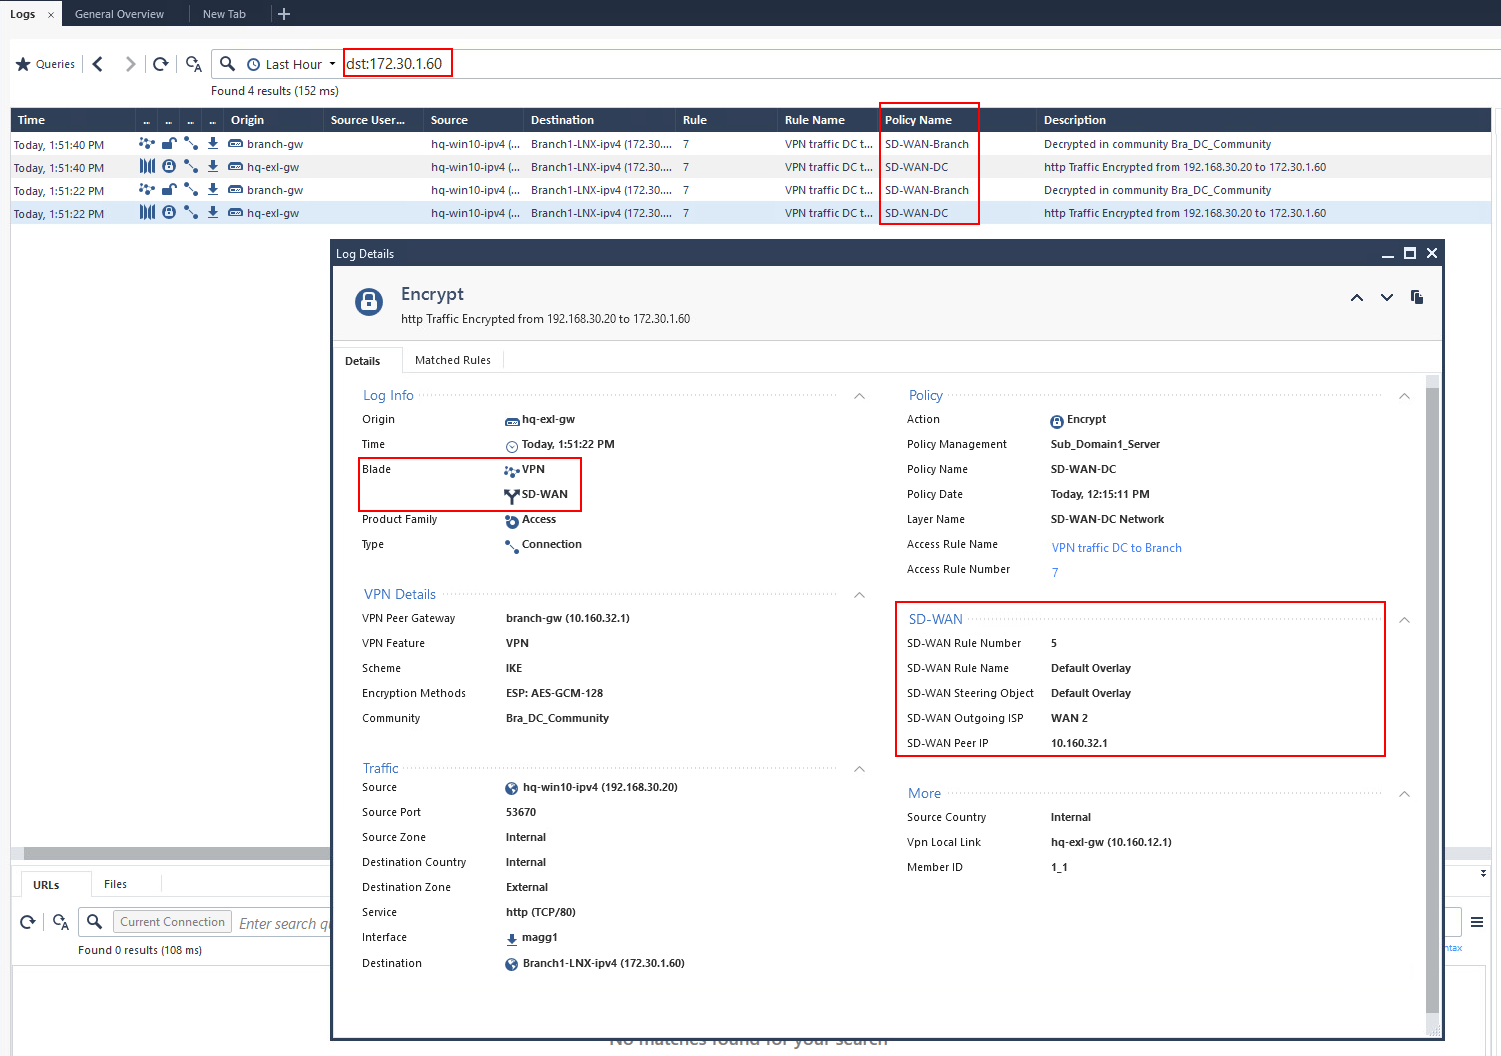
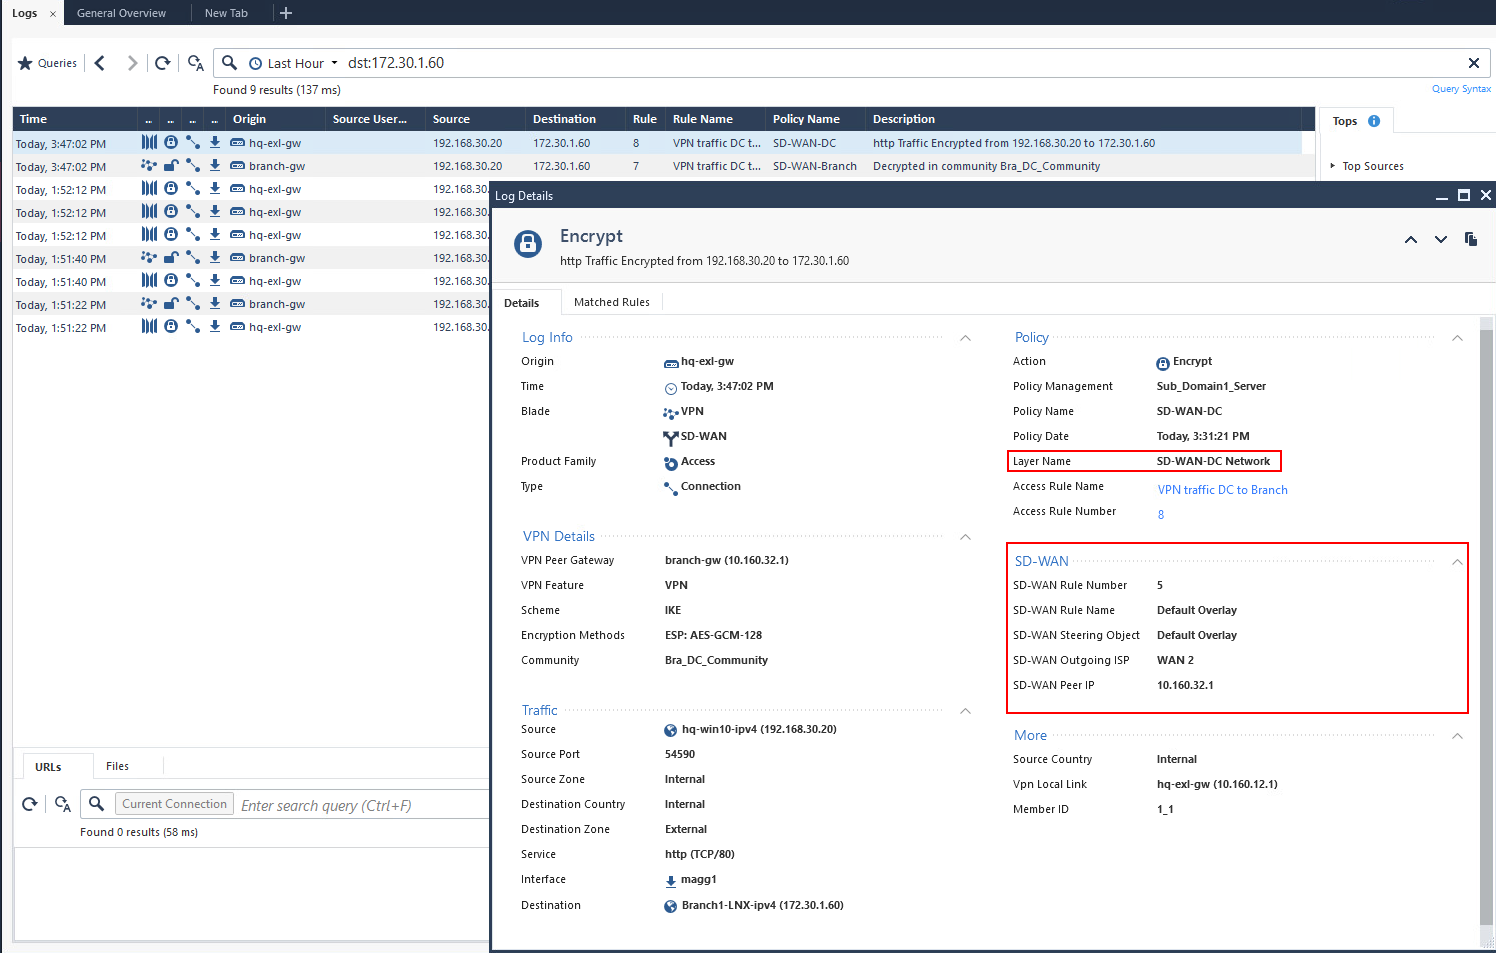
xddf

diff --git a/PlayBooks/SD-WAN/SD-WAN-OnPrem-Lab-Guide.md b/PlayBooks/SD-WAN/SD-WAN-OnPrem-Lab-Guide.md
@@ -507,6 +507,7 @@ you can see on both packages the same Probing Rules
 <summary><strong>observibility over Skyline</strong></summary>
 
 > :memo: on `hq-linux` host skyline with a check Point prepaired Grafana dashboard is waiting for Gateway Data :+1:
+
 to allow communication to prometheus please 
 
 - add a rule to the SD-WAN-DC policy package
@@ -516,6 +517,7 @@ to allow communication to prometheus please
 | `any` | `192.168.30.40` | http_and_https_proxy |
 
 > **:memo:** default destination port is 9090 but has been remaped in this lab to 8080
+
 modify (or create if not existing) a file 
 
 ```bash
@@ -562,12 +564,25 @@ Time: 30 minutes
 - Browse to an Internet site (https://bbc.com)
 - Browse to `http://172.30.1.60` (the web server at the branch)
 
-![web-page opens](./images/Web-Server-check.png)
-
 - In **Logs & Events**, search for `dst:172.30.1.60` and confirm you see an Encrypt log
 
-> **Expected result:** both sites load, and the Encrypt log shows the VPN path. 
-> you should observe at least two log entries to 172.30.1.60
+![policy-log-sd-wan](./images/policy-match-172-30-1-60.png)
+
+you see couple of new records that give you more insights about matching objects that are used in the lab policy.
+
+Answer these questions:
+
+- which Traffic Stearing object got use during your try to access 172.30.1.60?
+- which Traffic Stearing object got use during your try to access bbc.com?
+- can you name the Policy Layer Name?
+- over which interface was the traffic forwarded from `hw-exl-gw`
+
+now open the log entry from branch-gw
+
+Answer these questions:
+
+- why don't we see SD-WAN log information here?
+
 
 ### 6.2 Check the gateways
 
